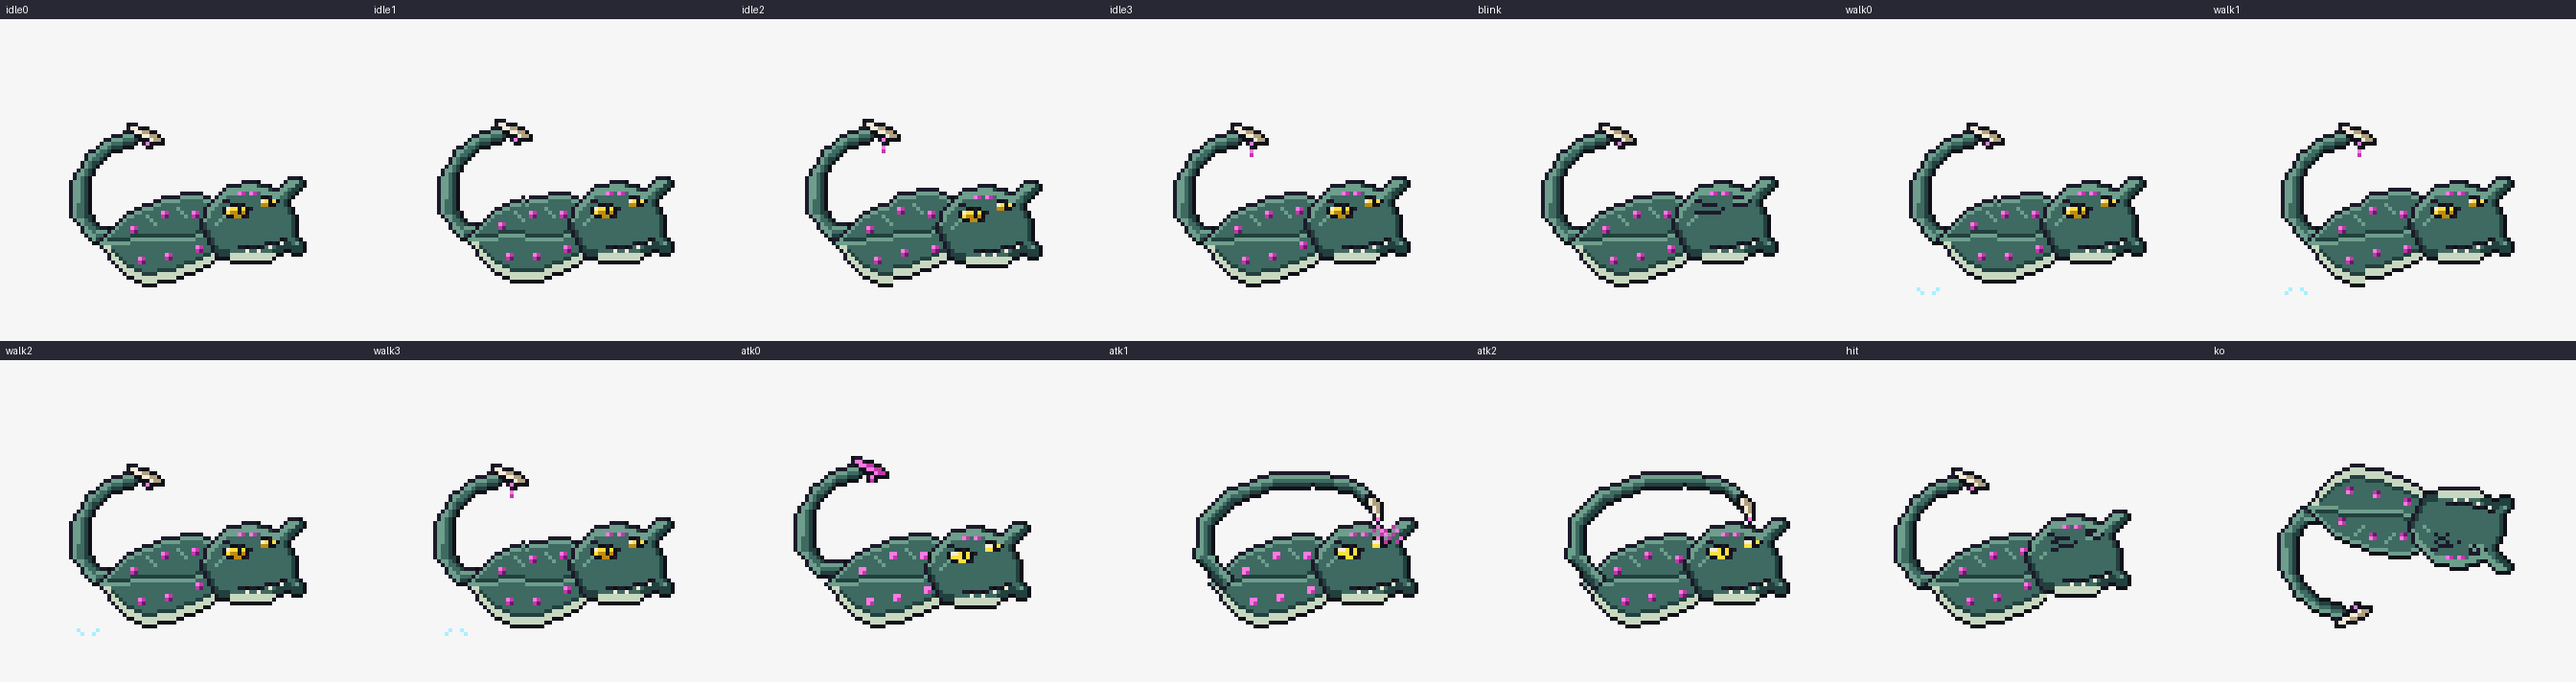
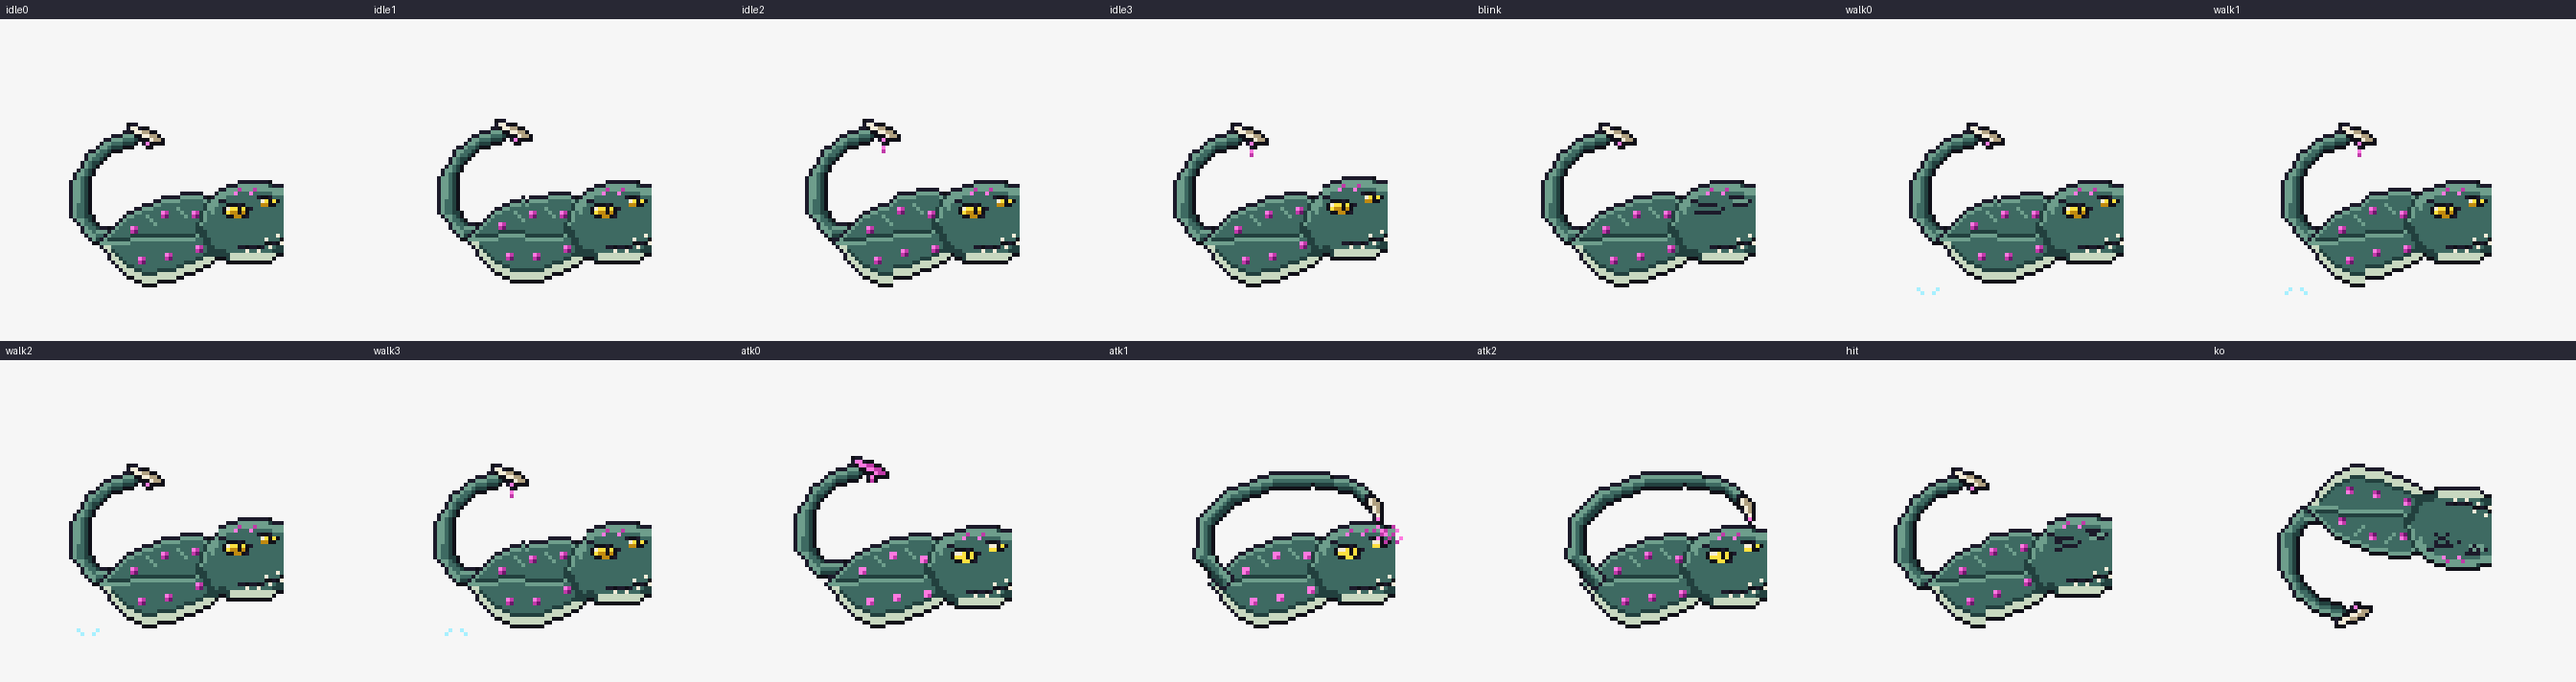
WIP: デフォルメ化 作業中
Claude-Session: https://claude.ai/code/session_01J9mYv3PRYW1GKv9GU2f7rQ

diff --git a/tools/monsters/dokuei/mon.py b/tools/monsters/dokuei/mon.py
@@ -19,60 +19,53 @@ def _run(g, x, y, dx, dy, ch):
     n = 0
     while 0 <= y < len(g) and 0 <= x < len(g[0]) and g[y][x] == ch: n += 1; x += dx; y += dy
     return n
-# 体（つばさ）：デフォルメで 小さく。奥の つばさは 上、手前の つばさは 下（裏の 白い ふちが 見える）
-def disc():
+# 体：つばさ（デフォルメで 小さく）と 大きな 頭を 1枚で 描く（頭は つばさに 食いこむ。輪郭で 切らない）
+# 奥の つばさは 上、手前の つばさは 下（裏の 白い ふちが 見える）。頭は 前へ つき出た 頭びれ（角の ような ひれ）と 下の 牙の 口
+def body():
     g = grid(64, 64)
     poly(g, [(10, 46.5), (18, 39), (27, 35), (36, 34), (42, 37), (44, 44), (10, 47)], '1')          # 奥の つばさ
     poly(g, [(10, 46), (44, 44), (45, 47), (38, 52), (29, 56), (22, 57), (16, 54)], '2')            # 手前の つばさ
+    poly(g, [(36, 43), (38, 37), (42, 33), (48, 31), (54, 31), (58, 33), (61, 37), (62, 42), (60, 47), (55, 50.5), (47, 51.5), (40, 49.5)], '3')
+    poly(g, [(56, 33), (60, 30), (63.5, 30), (61, 34), (59, 36)], '3')                              # 奥の 頭びれ
+    poly(g, [(58, 44), (63.5, 46), (63, 49), (58, 48)], '3')                                        # 手前の 頭びれ
     out = [r[:] for r in g]
     for y in range(64):
         for x in range(64):
             c = g[y][x]
-            if c == '1':
-                up = _run(g, x, y, 0, -1, '1'); dn = _run(g, x, y, 0, 1, '1')
-                out[y][x] = 'A' if up <= 1 else 'D' if dn <= 1 else 'B'
-            elif c == '2':
-                up = _run(g, x, y, 0, -1, '2'); dn = _run(g, x, y, 0, 1, '2')
-                out[y][x] = 'A' if up <= 1 else 'E' if dn <= 2 else 'D' if dn == 3 else 'B'
+            if c == '.': continue
+            up = _run(g, x, y, 0, -1, c); dn = _run(g, x, y, 0, 1, c)
+            if c == '1': out[y][x] = 'A' if up <= 1 else 'D' if dn <= 1 else 'B'
+            elif c == '2': out[y][x] = 'A' if up <= 1 else 'E' if dn <= 2 else 'D' if dn == 3 else 'B'
+            else:
+                lf = _run(g, x, y, -1, 0, c); rt = _run(g, x, y, 1, 0, c)
+                out[y][x] = 'D' if (dn <= 2 or rt <= 1) else 'A' if (up <= 2 or (lf <= 1 and y < 44)) else 'B'
+    def P(pts, ch):
+        for x, y in pts: out[y][x] = ch
     # 奥の つばさの 光の すじ（ひれの 骨）
     for x, y in ((22, 39), (23, 40), (24, 41), (30, 37), (31, 38), (32, 39)):
         if out[y][x] == 'B': out[y][x] = 'A'
-    ys = [y for y in range(64) if any(c != '.' for c in out[y])]; xs = [x for x in range(64) if any(out[y][x] != '.' for y in range(64))]
-    return xs[0] - 1, ys[0] - 1, outline(rows_of([r[xs[0]:xs[-1] + 1] for r in out[ys[0]:ys[-1] + 1]]))
-DX, DY, DISC = disc()
-SEG = [(0, 12), (12, 24), (24, 40)]   # つばさの 波うち用（列で 3つに 分ける）
-def cut(rows, x0, x1): return [r[x0:x1] for r in rows]
-
-# 頭（デフォルメで 大きく）：まるい 頭に 前へ つき出た 頭びれ（角の ような ひれ）、背の 上の つり目、下に 牙の 口
-def head():
-    g = grid(64, 64)
-    poly(g, [(37, 42), (39, 36), (44, 32), (51, 31), (56, 33), (60, 37), (61.5, 42), (60, 47), (55, 50.5), (47, 51.5), (41, 49.5)], '1')
-    poly(g, [(56, 33), (60, 30), (63.5, 30), (61, 34), (59, 36)], '1')                                # 奥の 頭びれ
-    poly(g, [(58, 44), (63.5, 46), (63, 49), (58, 48)], '1')                                         # 手前の 頭びれ
-    out = [r[:] for r in g]
+    # 頭と つばさの さかい：影の 線（輪郭で 切らない）
     for y in range(64):
-        for x in range(64):
-            if g[y][x] != '1': continue
-            up = _run(g, x, y, 0, -1, '1'); lf = _run(g, x, y, -1, 0, '1'); dn = _run(g, x, y, 0, 1, '1'); rt = _run(g, x, y, 1, 0, '1')
-            out[y][x] = 'D' if (dn <= 2 or rt <= 1) else 'A' if (up <= 2 or lf <= 1) else 'B'
-    def P(pts, ch):
-        for x, y in pts: out[y][x] = ch
-    # 背骨の 稜線（光る すじ）
-    P([(40, 41), (41, 40), (42, 39)], 'A')
+        for x in range(1, 64):
+            if g[y][x] == '3' and g[y][x - 1] in '12': out[y][x - 1] = 'D'
+    # 頭の まるみの 光（左上の 三日月）
+    P([(41, 35), (40, 36), (39, 37), (39, 38)], 'A')
     # まゆの ひさし（黒い 線、目の 上で つり上がる）
-    P([(42, 35), (43, 35), (44, 36), (45, 36), (46, 36), (47, 36), (48, 37), (49, 37)], 'k')
-    P([(52, 34), (53, 34), (54, 34), (55, 35), (56, 35)], 'k')
+    P([(41, 35), (42, 35), (43, 36), (44, 36), (45, 36), (46, 36), (47, 36), (48, 37), (49, 37)], 'k')
+    P([(51, 34), (52, 34), (53, 34), (54, 34), (55, 35), (56, 35)], 'k')
     # 毒の いぼ（頭の 上）
-    P([(47, 33), (50, 33)], 'p'); P([(46, 33), (49, 33)], 'P')
+    P([(46, 32), (50, 32)], 'p'); P([(45, 33), (49, 33)], 'P')
     # 口：下がわに 横に さけた 口と 牙、白い あご
-    P([(46, 47), (47, 47), (48, 47), (49, 47), (50, 47), (51, 47), (52, 47), (53, 46), (54, 46), (55, 46), (56, 46), (57, 45), (58, 45)], 'k')
-    P([(48, 48), (51, 48), (54, 47), (57, 46)], 'w')
-    for x in range(44, 57):
-        for y in range(48, 52):
-            if out[y][x] in 'BD' and y >= 49: out[y][x] = 'E'
+    P([(46, 47), (47, 47), (48, 47), (49, 47), (50, 47), (51, 47), (52, 47), (53, 46), (54, 46), (55, 46), (56, 46), (57, 45), (58, 45), (59, 45)], 'k')
+    P([(48, 48), (51, 48), (54, 47), (57, 46)], 'w'); P([(53, 45), (56, 44)], 'w')
+    for x in range(44, 60):
+        for y in range(49, 53):
+            if g[y][x] == '3' and out[y][x] in 'BD': out[y][x] = 'E'
     ys = [y for y in range(64) if any(c != '.' for c in out[y])]; xs = [x for x in range(64) if any(out[y][x] != '.' for y in range(64))]
     return xs[0] - 1, ys[0] - 1, outline(rows_of([r[xs[0]:xs[-1] + 1] for r in out[ys[0]:ys[-1] + 1]]))
-HX, HY, HEAD = head()
+DX, DY, DISC = body()
+SEG = [(0, 12), (12, 24), (24, 99)]   # つばさの 波うち用（列で 3つに 分ける。前の 列は 頭と いっしょ）
+def cut(rows, x0, x1): return [r[x0:x1] for r in rows]
 
 # 尾：うしろへ 出て、さそりの ように 上へ 反り返る
 TAIL = [
@@ -208,9 +201,8 @@ def layers():
         dict(n='g4', g='w0', x=20, y=50, rows=GL, alt={'atk0|atk1': GL_HOT}),
         dict(n='g5', g='w1', x=27, y=49, rows=GL, alt={'atk0|atk1': GL_HOT}),
         dict(n='g7', g='w2', x=35, y=47, rows=GL, alt={'atk0|atk1': GL_HOT}),
-        dict(n='head', g='head', x=HX, y=HY, rows=HEAD),
-        dict(n='eye', g='head', x=42, y=37, rows=EYE, alt=EYE_ALT),
-        dict(n='eye2', g='head', x=52, y=35, rows=EYE2, alt=EYE2_ALT),
+        dict(n='eye', g='w2', x=42, y=37, rows=EYE, alt=EYE_ALT),
+        dict(n='eye2', g='w2', x=52, y=35, rows=EYE2, alt=EYE2_ALT),
         dict(n='strike', g='root', x=5, y=17, rows=TAIL_STRIKE, only='atk1|atk2'),
         dict(n='barbd', g='root', x=50, y=23, rows=BARB_D, only='atk1|atk2'),
         dict(n='spray', g='root', x=52, y=31, rows=SPRAY, only='atk1'),
@@ -218,10 +210,10 @@ def layers():
     ]
     return L
 FRAMES = {
-    'idle0': {}, 'idle1': {'w0': (0, -1), 'tail': (0, -1)}, 'idle2': {'w1': (0, -1), 'tail': (0, -1), 'head': (0, 1)}, 'idle3': {'w2': (0, -1)},
+    'idle0': {}, 'idle1': {'w0': (0, -1), 'tail': (0, -1)}, 'idle2': {'w1': (0, -1), 'tail': (0, -1)}, 'idle3': {'w2': (0, -1)},
     'blink': {},
     'walk0': {'w0': (0, -1)}, 'walk1': {'w1': (0, -1), 'tail': (1, 0)}, 'walk2': {'w2': (0, -1)}, 'walk3': {'w1': (0, 1), 'tail': (-1, 0)},
-    'atk0': {'tail': (-1, -2), 'root': (-2, 0), 'head': (-1, 1)}, 'atk1': {'root': (2, 0)}, 'atk2': {'root': (3, 0), 'w2': (0, 1)},
-    'hit': {'root': (-3, 0), 'w2': (0, -1), 'head': (-1, -2), 'tail': (-1, 1)}, 'ko': {'_flip': True},
+    'atk0': {'tail': (-1, -2), 'root': (-2, 0), 'w2': (0, 1)}, 'atk1': {'root': (2, 0)}, 'atk2': {'root': (3, 0), 'w2': (0, 1)},
+    'hit': {'root': (-3, 0), 'w2': (0, -2), 'w1': (0, -1), 'tail': (-1, 1)}, 'ko': {'_flip': True},
 }
-PARENT = {'w0': 'root', 'w1': 'root', 'w2': 'root', 'tail': 'root', 'head': 'root'}
+PARENT = {'w0': 'root', 'w1': 'root', 'w2': 'root', 'tail': 'root'}
